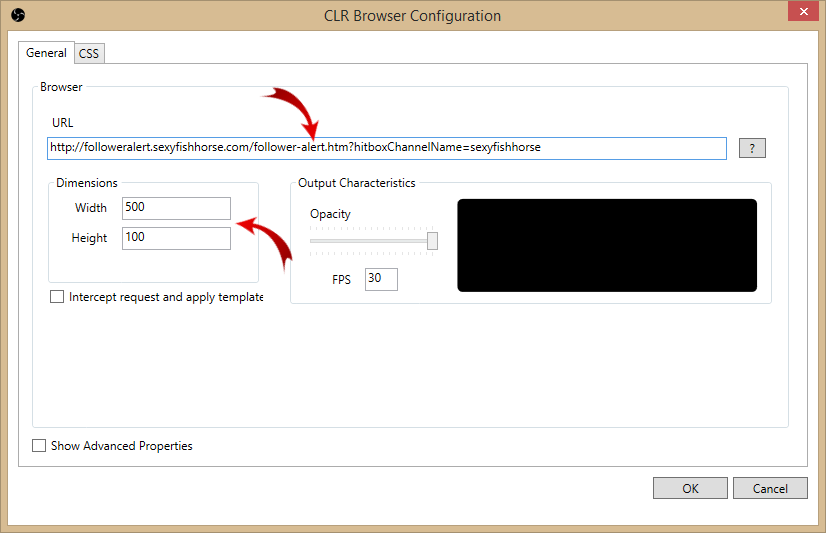
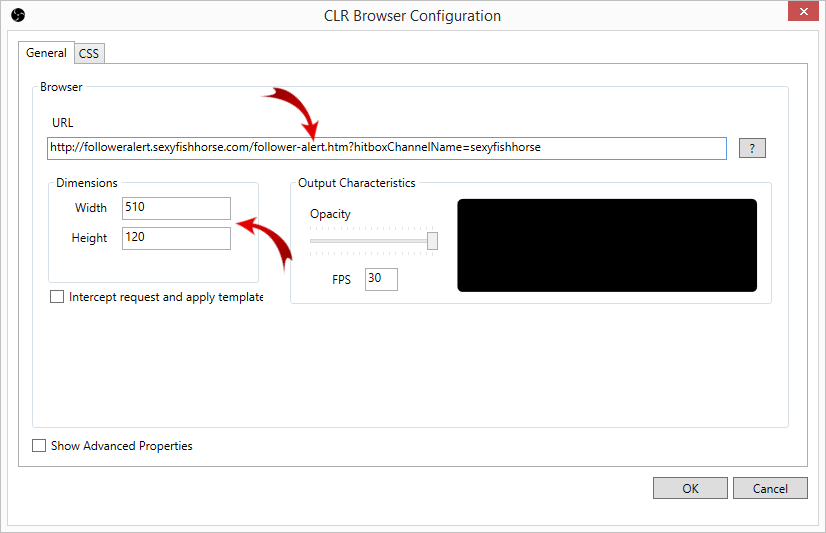
updated images and documentation for obs setup

Changed region(s): [[0.0, 0.0, 1.0, 1.0], [0.1513, 0.4203, 0.1816, 0.4503]]

diff --git a/app/index.html b/app/index.html
@@ -98,7 +98,7 @@
     </p>
     <p>
         <strong>Step 2:</strong>
-        Paste in your generated follower alert url in the text box. Set the height to 100 and the width to 500.
+        Paste in your generated follower alert url in the text box. Set the height to 120 and the width to 510.
         <br/>
         <img src="images/help/obs/Step2.png" />
     </p>
